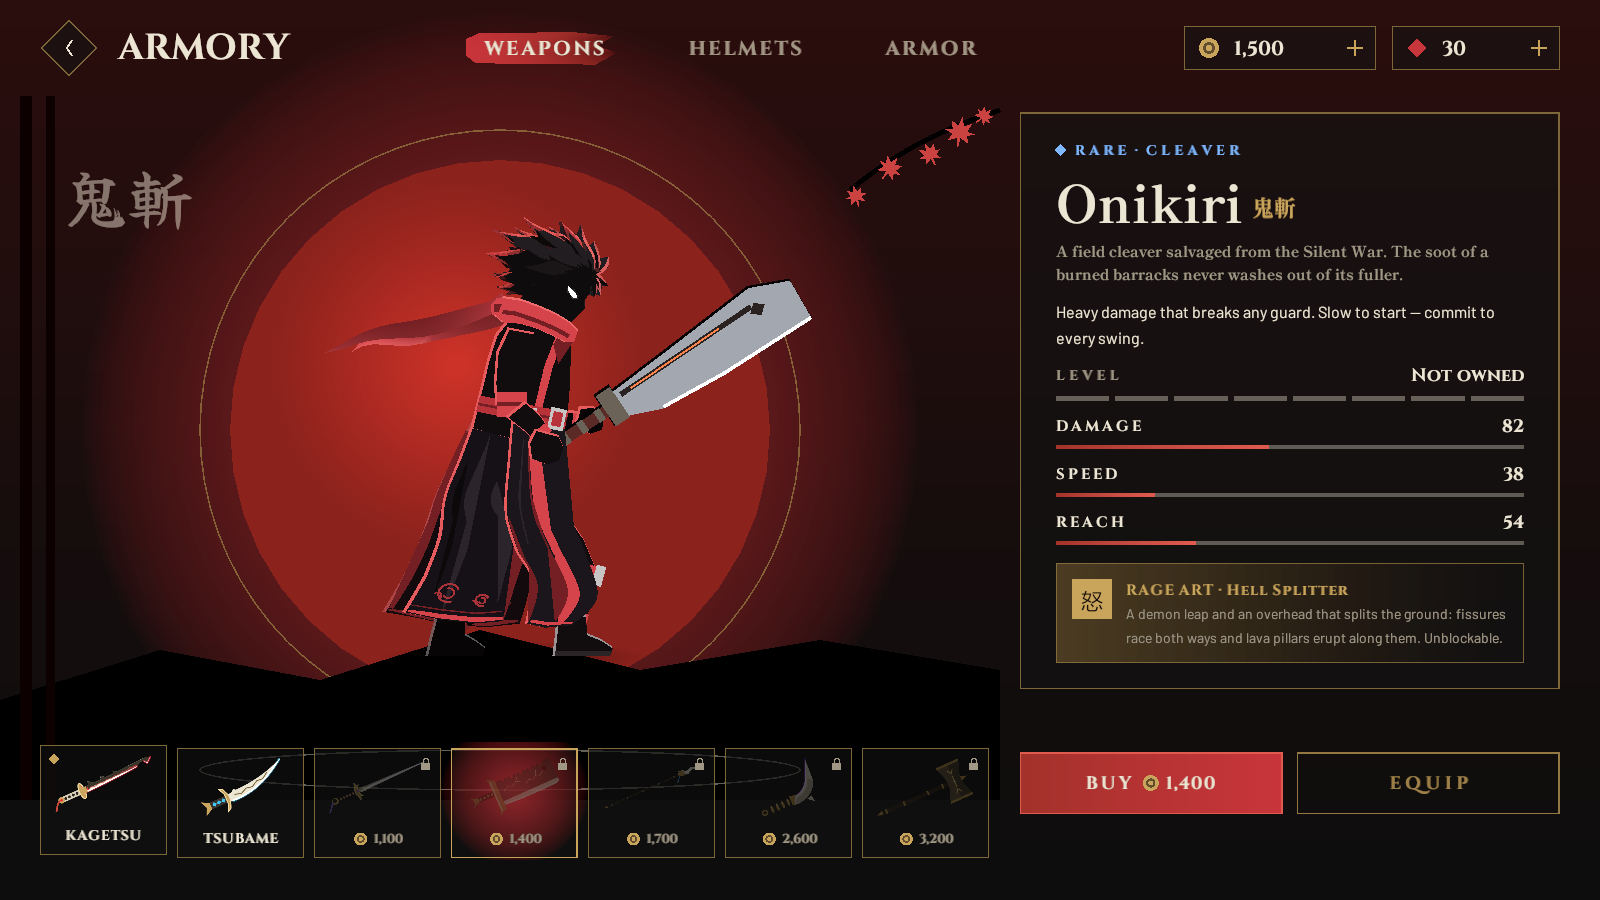
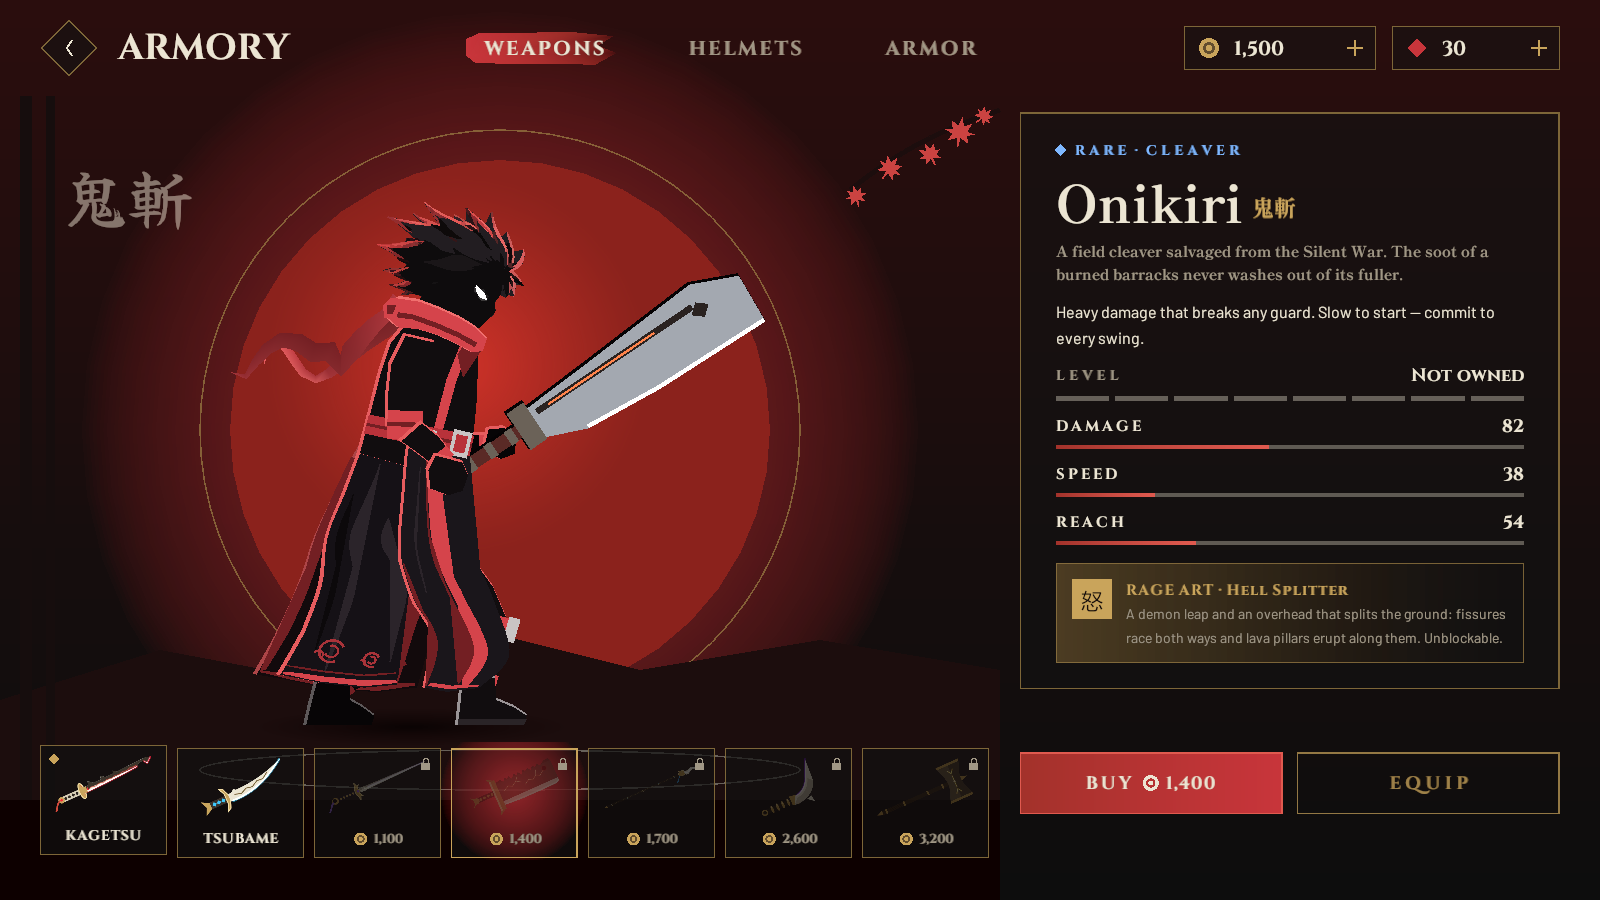
SAN-90: scrolling armour row, weapon framing, compact side boxes, side-by-side review sheets

Changed region(s): [[0.0, 0.2178, 0.625, 0.9022], [0.5625, 0.1556, 0.5938, 0.1867], [0.5312, 0.1867, 0.5625, 0.2178]]

diff --git a/Assets/Kage/Scripts/UI/Screens/ArmoryScreen.cs b/Assets/Kage/Scripts/UI/Screens/ArmoryScreen.cs
@@ -16,8 +16,8 @@ namespace Kage
     {
         const float TileW = 127f, TileGap = 10f, GridX = 40f, GridY = 748f, GridW = 950f, GridH = 112f;
 
-        float scroll;
-        RectTransform tileContent;
+        float scroll, cardScroll, cardMax;
+        RectTransform tileContent, cardsFront, cardsBack;
         float tileMax;
         static readonly Color Violet = Ui.Hex("#a98bff"), Blue = Ui.Hex("#7fb8ff"), Lit = Ui.Hex("#e9c46a");
 
@@ -95,15 +95,14 @@ namespace Kage
             }
             var saves = new List<SaveData>();
             var xs = new List<float>();
-            float pitch, cardW;
-            CardGeometry(v.Tiles.Length, out pitch, out cardW);
             for (int i = 0; i < v.Tiles.Length; i++)
             {
                 saves.Add(ArmoryView.PreviewSave(save, ArmoryTab.Armor, v.Tiles[i].Id));
-                xs.Add(CardX(i, pitch) + 3f + 0.54f * (cardW - 6f));
+                xs.Add(CardX(i) + 3f + 0.54f * (CardW - 6f));
             }
             string key = v.Line + "|" + save.equipped.weapon + ":" + KageCharacter.LoadoutKey(save).Split('|')[0] + "|" + v.Tiles.Length;
-            world.ShowRow(saves, xs, key);
+            // the row scrolls by the camera panning with it, so each Kage stays in his card
+            world.ShowRow(saves, xs, key, cardScroll);
         }
 
         // ---------------- the top bar ----------------
@@ -506,13 +505,17 @@ namespace Kage
 
         // ---------------- the Armor tab ----------------
 
-        static void CardGeometry(int n, out float pitch, out float cardW)
-        {
-            pitch = n <= 8 ? 191f : (1516f / n);
-            cardW = pitch - 14f;
-        }
+        // JS .al-row: cards 177 wide, 14 apart, from x = 42; the row (x 40 to 1560) scrolls when there are more than eight
+        const float CardW = 177f, CardPitch = 191f, RowX = 40f, RowW = 1520f;
 
-        static float CardX(int i, float pitch) { return 42f + i * pitch; }
+        static float CardX(int i) { return 42f + i * CardPitch; }
+
+        void KeepCardVisible(int i)
+        {
+            float lo = CardX(i) - RowX - 4f, hi = CardX(i) - RowX + CardW + 4f;
+            if (lo < cardScroll) cardScroll = Mathf.Clamp(lo, 0f, cardMax);
+            else if (hi > cardScroll + RowW) cardScroll = Mathf.Clamp(hi - RowW, 0f, cardMax);
+        }
 
         void ArmorBody(ArmoryView v, SaveData save, RectTransform back)
         {
@@ -545,10 +548,21 @@ namespace Kage
                 cx += w + 10f;
             }
 
-            // the cards
-            float pitch, cardW;
-            CardGeometry(v.Tiles.Length, out pitch, out cardW);
-            for (int i = 0; i < v.Tiles.Length; i++) Card(v, v.Tiles[i], i, CardX(i, pitch), cardW, back);
+            // the cards, in a row that is clipped to its window and scrolls
+            int n = v.Tiles.Length;
+            cardMax = Mathf.Max(0f, CardX(n - 1) + CardW + 4f - RowX - RowW);
+            cardScroll = Mathf.Clamp(cardScroll, 0f, cardMax);
+            for (int i = 0; i < n; i++)
+                if (v.Tiles[i].Selected) KeepCardVisible(i);
+            cardsFront = Ui.Node(Root, "Cards", RowX, 0, RowW, 900);
+            cardsFront.gameObject.AddComponent<RectMask2D>();
+            cardsBack = null;
+            if (back != null)
+            {
+                cardsBack = Ui.Node(back, "Cards", RowX, 0, RowW, 900);
+                cardsBack.gameObject.AddComponent<RectMask2D>();
+            }
+            for (int i = 0; i < n; i++) Card(v, v.Tiles[i], i, CardX(i) - RowX - cardScroll, CardW);
 
             ArmorDetail(v);
         }
@@ -577,14 +591,14 @@ namespace Kage
             return r;
         }
 
-        void Card(ArmoryView v, ArmoryTile t, int index, float x, float w, RectTransform back)
+        void Card(ArmoryView v, ArmoryTile t, int index, float x, float w)
         {
             const float Y = 158f, H = 412f;
             var hue = HueOf(t.Id);
             // behind the fighter: the card's dark ground and the glow
-            if (back != null)
+            if (cardsBack != null)
             {
-                var bg = Ui.Node(back, "Card_" + t.Id, x, Y, w, H);
+                var bg = Ui.Node(cardsBack, "Card_" + t.Id, x, Y, w, H);
                 Ui.Shape(bg, 0, 0, w, H, Octagon(0, 0, w, H, 10f), Ui.PanelA(0.82f), Ui.Mix(Ui.Panel, Color.black, 0.96f), null, false);
                 // CSS ellipse 90% 60% at 52% 42%, clear at 72%: an oval glow, scaled about its own centre
                 float gr = 0.65f * w;
@@ -593,7 +607,7 @@ namespace Kage
                 glow.rectTransform.anchoredPosition = new Vector2(w * 0.52f, -H * 0.42f);
                 glow.rectTransform.localScale = new Vector3(1f, 0.43f * H / gr, 1f);
             }
-            var rt = Ui.Node(Root, "Card_" + t.Id, x, Y, w, H);
+            var rt = Ui.Node(cardsFront, "Card_" + t.Id, x, Y, w, H);
             bool sel = t.Selected;
             if (sel)
             {
@@ -643,7 +657,12 @@ namespace Kage
 
             string id = t.Id;
             float cardX = x;
-            var item = UiParts.Make(rt, Nav, "tile:" + id, () => A.Select(id), f => rt.anchoredPosition = new Vector2(cardX, -(Y - (f ? 4f : 0f))));
+            int idx = index;
+            var item = UiParts.Make(rt, Nav, "tile:" + id, () => A.Select(id), f =>
+            {
+                rt.anchoredPosition = new Vector2(cardX, -(Y - (f ? 4f : 0f)));
+                if (f) KeepCardVisible(idx);
+            });
             item.onUserFocus = () => A.Select(id);
         }
 

diff --git a/Assets/Kage/Scripts/UI/Flow/ArmoryWorld.cs b/Assets/Kage/Scripts/UI/Flow/ArmoryWorld.cs
@@ -139,10 +139,13 @@ namespace Kage
         /// <summary>
         /// Puts a row of Kages on the stage, one per save, centred at the given stage px (their feet on the card baseline).
         /// </summary>
-        public void ShowRow(IList<SaveData> saves, IList<float> stageX, string key)
+        public void ShowRow(IList<SaveData> saves, IList<float> stageX, string key, float panPx = 0f)
         {
             string sig = "row|" + key;
-            SetFrame(RowFrame);
+            // a scrolled row: the camera pans along it by as many stage px as the cards moved
+            var frameRow = RowFrame;
+            frameRow.cx += panPx * K(RowFrame);
+            SetFrame(frameRow);
             if (sig == Signature || sig == pendingSig) return;
             pendingSig = sig;
             var list = new List<SaveData>(saves);
@@ -209,7 +212,7 @@ namespace Kage
         // ((px - 800) k + cx, (450 - py) k + cy) with k = 2 size / 900.
 
         // weapons: Kage whole, his feet low on the sun's left (JS: the ghost warrior at 0.42 of the 1000 px preview)
-        static readonly Frame BodyFrame = new Frame { size = 1.39f, cx = 1.07f, cy = 0.865f };
+        static readonly Frame BodyFrame = new Frame { size = 1.55f, cx = 1.343f, cy = 0.964f };
         // helmets: his head and shoulders, big, the sun behind (JS: the figure at 1.5 x the preview's height)
         static readonly Frame HeadFrame = new Frame { size = 0.87f, cx = 0.578f, cy = 1.52f };
         // armour cards: a row of whole figures, feet on the card baseline
@@ -227,8 +230,10 @@ namespace Kage
         void SetFrame(Frame f)
         {
             if (target.size == f.size && target.cx == f.cx && target.cy == f.cy) return;
+            // only a pan (a scrolled row) follows at once, so the fighters stay in their cards while the cards move
+            bool onlyPan = target.size > 0f && Mathf.Approximately(target.size, f.size) && Mathf.Approximately(target.cy, f.cy);
             target = f;
-            if (Signature == null) snap = true;
+            if (Signature == null || onlyPan) snap = true;
         }
 
         void Apply(Frame f)
